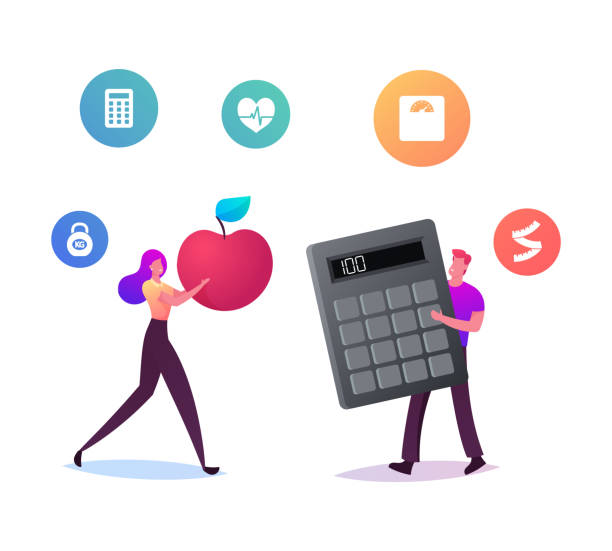
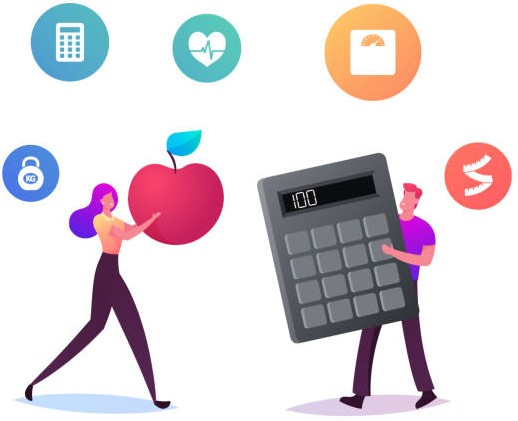
designed landiing page

diff --git a/frontend/src/styles/card.css b/frontend/src/styles/card.css
@@ -1,0 +1,81 @@
+.cardWrapper{
+    width: 80%;
+    height: 80%;
+    /* border-radius: 7px; */
+    background-color: var(--cardBackground);
+    
+    overflow: hidden;
+    box-shadow: rgba(0, 0, 0, 0.07) 0px 1px 2px, rgba(0, 0, 0, 0.07) 0px 2px 4px, rgba(0, 0, 0, 0.07) 0px 4px 8px, rgba(0, 0, 0, 0.07) 0px 8px 16px, rgba(0, 0, 0, 0.07) 0px 16px 32px, rgba(0, 0, 0, 0.07) 0px 32px 64px;
+    padding: 1.8rem 2rem;
+}
+
+
+.card{
+    margin-top: 2rem;
+    opacity: 1;
+    width: 100%;
+    height: 100%;  
+    display: flex;  
+}
+
+.card aside.left{
+    width: 35%;
+    padding-top: 1.5rem;
+    padding-left: 2rem;
+}
+
+.card aside.left .heading-wrapper{
+    margin-bottom: 2rem;
+}
+
+.card aside.left h2{
+    color: var(--color1);
+    font-weight: 600;
+    font-size: 2.5rem;
+}
+
+.card aside.left .p-wrapper{
+    margin-bottom: 2rem;
+}
+
+.card aside.left p{
+    padding-top: 0.8rem;
+    color: var(--color3);
+}
+.card aside.left .btn-wrapper{
+    display: flex;
+    gap: 2rem;
+}
+
+.card aside.left .btn{
+    padding: 0.5rem 1.7rem;
+    border-radius: 3rem;
+    font-weight: 500;
+
+}
+.card aside.left .btn:hover{
+    cursor: pointer;
+    opacity: 0.7;
+    transition: all ease 0.5s;
+}
+
+.card aside.left .btn1{
+    color: var(--color4);
+    border: 1px solid var(--color4);
+}
+
+.card aside.left .btn2{
+    color: var(--color5);
+    background-color: rgb(170, 30, 116);
+}
+
+.card aside.right{
+    width: 65%;
+}
+
+.card aside.right .image{
+    float: right;
+    mix-blend-mode: multiply;
+    height: 80%;
+    margin-right: 2rem;
+}

diff --git a/frontend/src/components/Card.jsx b/frontend/src/components/Card.jsx
@@ -1,0 +1,38 @@
+import React from "react";
+import "../styles/card.css";
+import Header from "./Header";
+import illustration from "../assets/images/healthy_eating.jpg";
+
+function Card() {
+  return (
+    <div className="cardWrapper">
+      <Header />
+      <div className="card">
+        <aside className="left">
+          <div className="heading-wrapper">
+            <h2>Your Body</h2>
+            <h2>Deserves</h2>
+          </div>
+          <div className="p-wrapper">
+            <p>
+              Empowering Health, Defeating Obesity: Your Path to a Healthier
+              Tomorrow
+            </p>
+            <p>
+              Analyzing Obesity for a Healthier Lifestyle: Your Keys to Wellness
+            </p>
+          </div>
+          <div className="btn-wrapper">
+            <span className="btn btn1">Contact Us</span>
+            <span className="btn btn2">Analyze</span>
+          </div>
+        </aside>
+        <aside className="right">
+          <img className="image" src={illustration} alt="" srcset="" />
+        </aside>
+      </div>
+    </div>
+  );
+}
+
+export default Card;

diff --git a/frontend/src/styles/header.css b/frontend/src/styles/header.css
@@ -1,0 +1,37 @@
+.header-container{
+    display: flex;
+    justify-content: flex-end;
+    gap: 1.7rem;
+    font-size: 1.1rem;
+    font-weight: 600;
+    color: var(--color1);
+}
+
+.header-container span{
+    padding: 0 2px;
+    position: relative;
+}
+
+.header-container span.inactive::after{
+    content: '';
+    position: absolute;
+    width: 0px;
+    height: 2px;
+    left: 0;
+    bottom:0;
+    background-color: var(--color2);
+    transition: all ease-in-out .2s;
+}
+
+.header-container span:hover{
+    cursor: pointer;
+}
+
+.header-container span:hover::after{
+    width: 100%;
+    left: 0;
+}
+
+.header-container .active{
+    border-bottom: 2px solid var(--color2);
+}

diff --git a/frontend/src/index.css b/frontend/src/index.css
@@ -1,0 +1,30 @@
+@import url('https://fonts.googleapis.com/css2?family=Poppins:ital,wght@0,100;0,200;0,300;0,400;0,500;0,600;0,700;0,800;0,900;1,100;1,200;1,300;1,400;1,500;1,600;1,700;1,800;1,900&display=swap');
+
+
+
+:root{
+    font-size: 16px;
+    --cardBackground: #f7f8f8aa;
+    --color1: #3649c0;
+    --color2: #34408f;
+    --color3: #595757;
+    --color4: black;
+    --color5: white;
+}
+
+*{
+    margin: 0;
+    padding: 0;
+    box-sizing: border-box;
+}
+
+html,body{
+    font-size: 16px;
+    font-family: 'Poppins', sans-serif;
+}
+
+body{
+    background-image: url("./assets/images/Bubbles.jpg");
+    background-repeat: no-repeat;
+    background-size: cover;
+}

diff --git a/frontend/src/components/Wrapper.jsx b/frontend/src/components/Wrapper.jsx
@@ -1,0 +1,20 @@
+import React from "react";
+import Card from "./Card";
+
+function Wrapper() {
+  return (
+    <div
+      style={{
+        width: "100vw",
+        height: "100vh",
+        display: "flex",
+        justifyContent: "center",
+        alignItems: "center",
+      }}
+    >
+      <Card />
+    </div>
+  );
+}
+
+export default Wrapper;

diff --git a/frontend/src/components/Header.jsx b/frontend/src/components/Header.jsx
@@ -1,0 +1,14 @@
+import React from "react";
+import "../styles/header.css";
+
+function Header() {
+  return (
+    <div className="header-container">
+      <span className="active">Home</span>
+      <span className="inactive">Analyze</span>
+      <span className="inactive">Contact Us</span>
+    </div>
+  );
+}
+
+export default Header;

diff --git a/frontend/src/App.js b/frontend/src/App.js
@@ -1,7 +1,8 @@
 import React from "react";
+import Wrapper from "./components/Wrapper";
 
 function App() {
-  return <div>Home</div>;
+  return <Wrapper />;
 }
 
 export default App;
